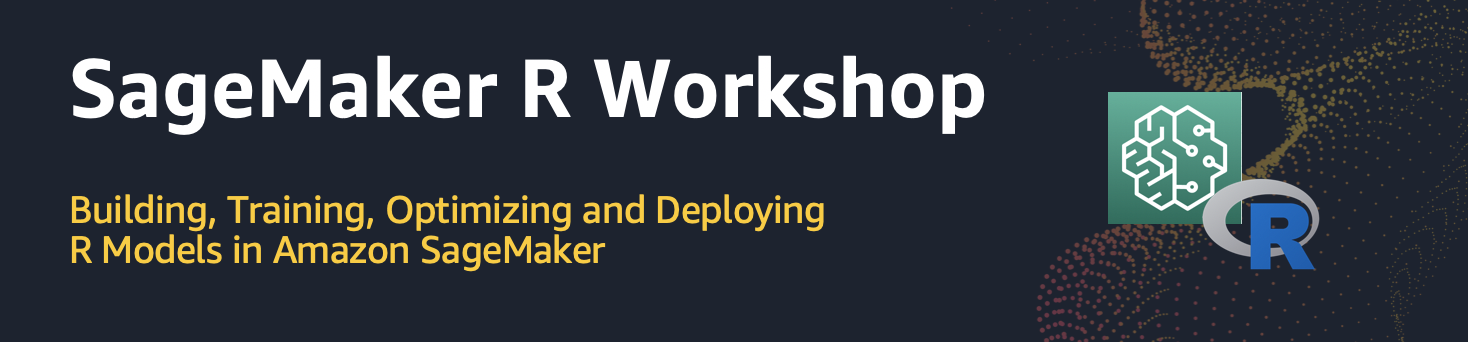
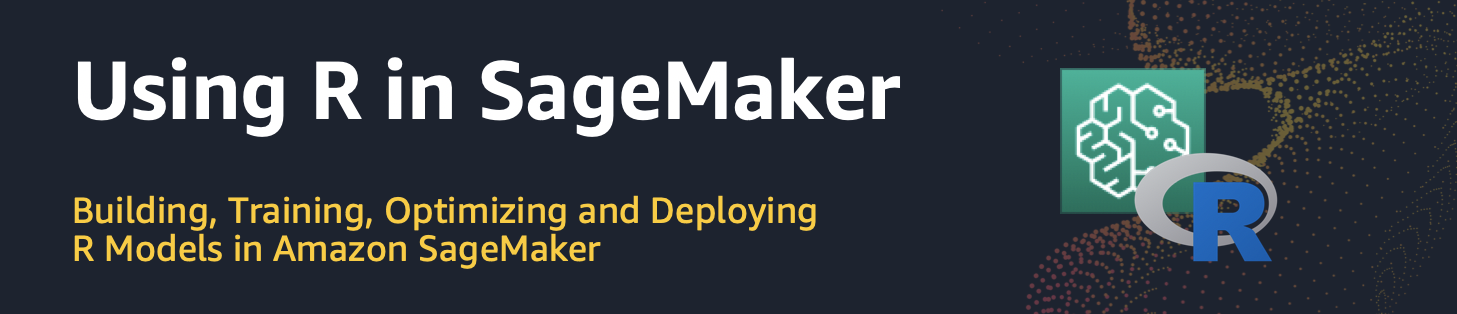
Revising the README.md file with addition of new content

diff --git a/README.md b/README.md
@@ -1,5 +1,5 @@
 
-# Amazon SageMaker + R Workshop
+# Using R in SageMaker
 <p align="center">
 <img src="./images/r-title.png">
 </p>
@@ -26,7 +26,11 @@ This GitHub repository provides examples of coding in R in SageMaker environment
 4. [Hyperparameter Optimization for XGBoost in R and Batch Transform](https://github.com/nickminaie/AWS-SageMaker-R-Workshop/tree/master/R_XGBoost_HPO_Batch_Transform)
   This sample Notebook describes how to conduct Hyperparamter tuning and batch transform to make predictions for abalone age as measured by the number of rings in the shell. The notebook will use the public abalone dataset hosted by UCI Machine Learning Repository.
 
-5. [Using Spark EMR Clusters in SageMaker with R Kernel](https://github.com/nickminaie/AWS-SageMaker-R-Workshop/tree/master/SageMaker-SparkR) The purpose of this example is to demonstrate how SageMaker notebook with R kernel can be connected to an EMR cluster using SparklyR package to process Spark job including data processing, SQL queries, Machine Learning, and data read/write in different formats. The example uses `iris`, `abalone`, and `mtcars` public datasets.
+5. [Using Spark EMR Clusters in SageMaker with R Kernel](https://github.com/nickminaie/AWS-SageMaker-R-Workshop/tree/master/SageMaker-SparkR)
+  The purpose of this example is to demonstrate how SageMaker notebook with R kernel can be connected to an EMR cluster using SparklyR package to process Spark job including data processing, SQL queries, Machine Learning, and data read/write in different formats. The example uses `iris`, `abalone`, and `mtcars` public datasets.
+
+5. [Creating a Persistent Custom R Environment for SageMaker](https://github.com/nickminaie/AWS-SageMaker-R-Workshop/tree/master/R-Custom-Kernel)
+  The instructions outlined in this example will walk you through the steps to create a custom R environment with user-specific packages for Amazon SageMaker, and make the environment persistent between sessions, and also to use the environment in creating new SageMaker instances.
 
 These examples utilize two libraries that provide R interfaces for AWS SageMaker and AWS services:
 
